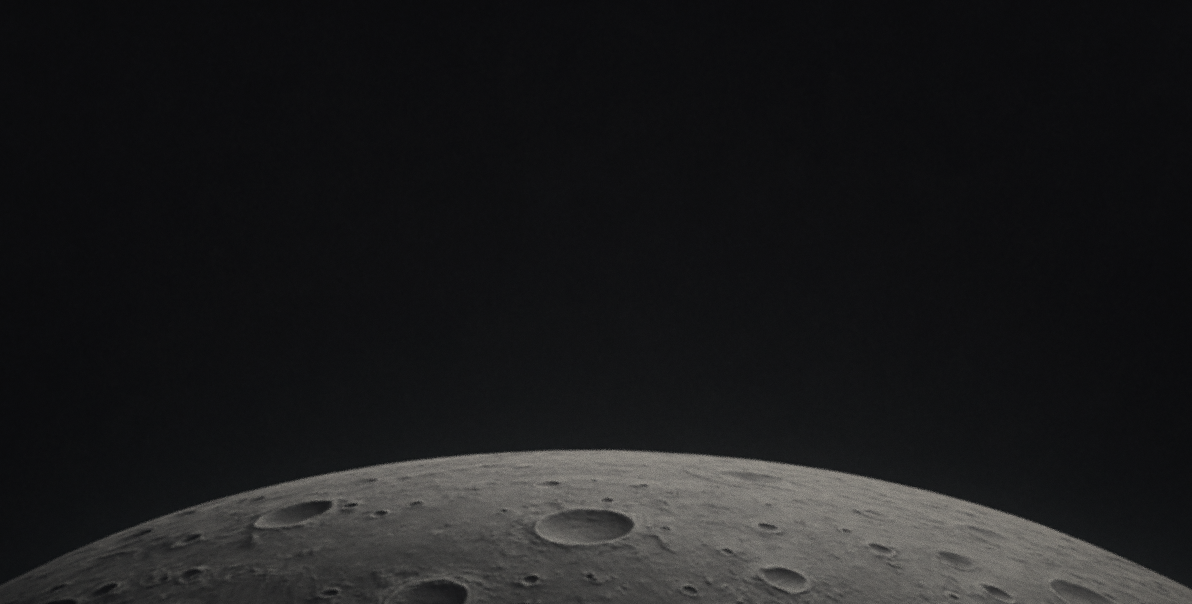
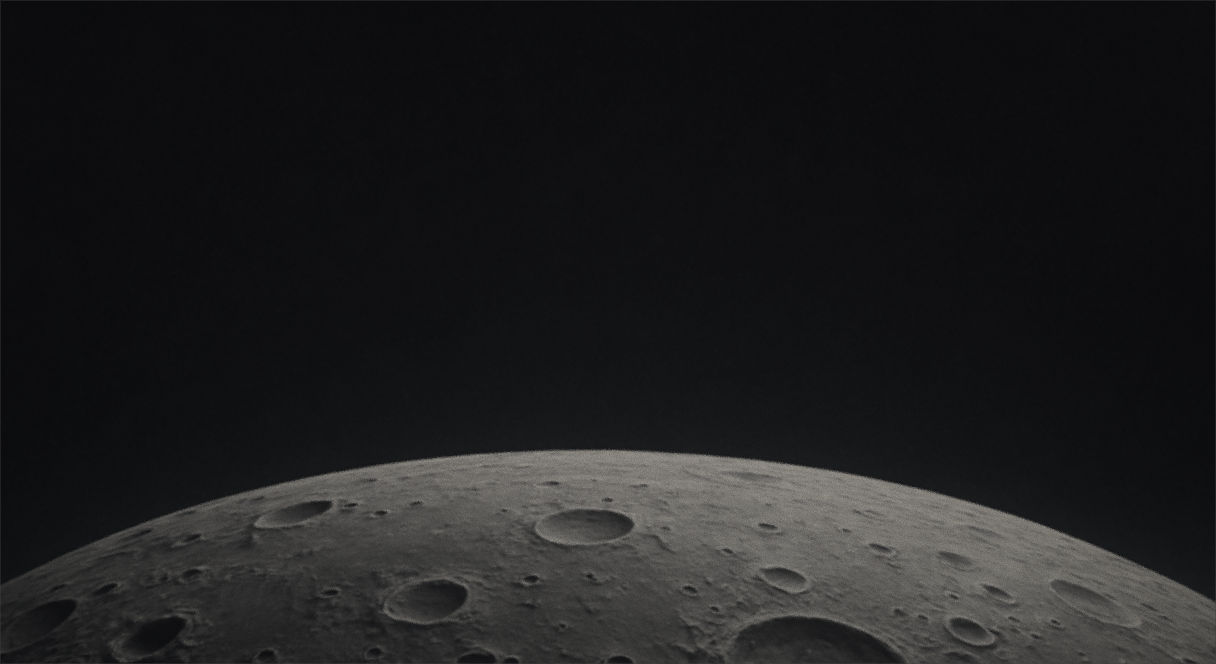
Fixed transaction output amount & updated design (#400)
* Added testIds for inMemory provider.

* Added version 2 on backend transactions

* Added validations on private and public key.

* Fixed transaction output amount

* Updated styles

* Fixes

* Fixes

Changed region(s): [[0.0, 0.6556, 1.0, 1.0], [0.0931, 0.9238, 0.1552, 1.0]]

diff --git a/src/provider/LoginModal.tsx b/src/provider/LoginModal.tsx
@@ -1,6 +1,7 @@
 import React from 'react';
 import { createPortal } from 'react-dom';
 import { createRoot } from 'react-dom/client';
+import { DataTestIdsEnum } from 'localConstants';
 
 const modalStyles = {
   overlay: {
@@ -111,12 +112,15 @@ const Modal = ({ onSubmit, onClose, needsAddress, anchor }: ModalProps) => {
               <label style={styles.label}>
                 Address
                 <input
+                  data-testid={DataTestIdsEnum.addressInput}
                   style={styles.input}
                   type='text'
                   name='address'
                   placeholder='Public key'
                   autoFocus
                   required
+                  pattern='^erd1[a-z0-9]{58}$'
+                  title='Please enter a valid address!'
                 />
               </label>
             </div>
@@ -125,21 +129,32 @@ const Modal = ({ onSubmit, onClose, needsAddress, anchor }: ModalProps) => {
             <label style={styles.label}>
               Private Key
               <input
+                data-testid={DataTestIdsEnum.privateKeyInput}
                 style={styles.input}
                 type='text'
                 name='privateKey'
                 placeholder='Private key'
                 autoFocus={!needsAddress}
                 required
+                pattern='^[a-fA-F0-9]{64}$'
+                title='Please enter a valid private key!'
               />
             </label>
           </div>
           <div style={styles.buttonGroup}>
-            <button onClick={onClose} style={styles.button}>
+            <button
+              data-testid={DataTestIdsEnum.cancelButton}
+              onClick={onClose}
+              style={styles.button}
+            >
               Cancel
             </button>
 
-            <button type='submit' style={styles.button}>
+            <button
+              data-testid={DataTestIdsEnum.submitButton}
+              type='submit'
+              style={styles.button}
+            >
               Submit
             </button>
           </div>

diff --git a/src/hooks/transactions/useSendPingPongTransaction.ts b/src/hooks/transactions/useSendPingPongTransaction.ts
@@ -1,6 +1,6 @@
 import { ProxyNetworkProvider } from '@multiversx/sdk-core/out';
-import axios from 'axios';
 import { contractAddress } from 'config';
+import pingPongAbi from 'contracts/ping-pong.abi.json';
 import { signAndSendTransactions } from 'helpers';
 import {
   AbiRegistry,
@@ -30,8 +30,7 @@ export const useSendPingPongTransaction = () => {
   const { address } = useGetAccount();
 
   const getSmartContractFactory = async () => {
-    const response = await axios.get('src/contracts/ping-pong.abi.json');
-    const abi = AbiRegistry.create(response.data);
+    const abi = AbiRegistry.create(pingPongAbi);
     const scFactory = new SmartContractTransactionsFactory({
       config: new TransactionsFactoryConfig({
         chainID: network.chainId
@@ -93,8 +92,14 @@ export const useSendPingPongTransaction = () => {
   const sendPingTransactionFromService = async (
     transactions: Transaction[]
   ) => {
+    const versionTwoTransactions = transactions.map((transaction) => {
+      const tx = Transaction.newFromPlainObject(transaction.toPlainObject());
+      tx.version = 2;
+      return tx;
+    });
+
     const sessionId = await signAndSendTransactions({
-      transactions,
+      transactions: versionTwoTransactions,
       transactionsDisplayInfo: PING_TRANSACTION_INFO
     });
 
@@ -156,8 +161,14 @@ export const useSendPingPongTransaction = () => {
       return;
     }
 
+    const versionTwoTransactions = transactions.map((transaction) => {
+      const tx = Transaction.newFromPlainObject(transaction.toPlainObject());
+      tx.version = 2;
+      return tx;
+    });
+
     const sessionId = await signAndSendTransactions({
-      transactions,
+      transactions: versionTwoTransactions,
       transactionsDisplayInfo: PONG_TRANSACTION_INFO
     });
 

diff --git a/src/components/OutputContainer/components/TransactionOutput.tsx b/src/components/OutputContainer/components/TransactionOutput.tsx
@@ -9,7 +9,6 @@ import {
   MvxCopyButton,
   SignedTransactionType,
   TRANSACTIONS_ENDPOINT,
-  useGetAccount,
   useGetNetworkConfig
 } from 'lib';
 
@@ -29,7 +28,6 @@ export const TransactionOutput = ({
   transaction: SignedTransactionType;
 }) => {
   const { network } = useGetNetworkConfig();
-  const { balance } = useGetAccount();
   const decodedData = transaction.data
     ? Buffer.from(transaction.data, 'base64').toString('ascii')
     : 'N/A';
@@ -79,7 +77,11 @@ export const TransactionOutput = ({
 
       <p>
         <Label>Amount: </Label>
-        <FormatAmount value={balance} data-testid='balance' />
+        <FormatAmount
+          value={transaction.value}
+          showLabel={true}
+          data-testid='balance'
+        />
       </p>
       <p>
         <Label>Gas price: </Label>

diff --git a/src/localConstants/dataTestIds.enum.ts b/src/localConstants/dataTestIds.enum.ts
@@ -1,18 +1,22 @@
 export enum DataTestIdsEnum {
   addressShard = 'addressShard',
+  addressInput = 'addressInput',
   balance = 'balance',
+  cancelButton = 'cancelButton',
   decodedMessage = 'decodedMessage',
   encodedMessage = 'encodedMessage',
   heroTag = 'heroTag',
   messageSignature = 'messageSignature',
   nftExplorerLink = 'nftExplorerLink',
   nftFormattedAmount = 'nftFormattedAmount',
+  privateKeyInput = 'privateKeyInput',
   receiverLink = 'receiverLink',
   receiverShard = 'receiverShard',
   senderLink = 'senderLink',
   senderShard = 'senderShard',
   shardFromLink = 'shardFromLink',
   shardToLink = 'shardToLink',
+  submitButton = 'submitButton',
   tokenExplorerLink = 'tokenExplorerLink',
   tokenFormattedAmount = 'tokenFormattedAmount',
   transactionHash = 'transactionHash',

diff --git a/src/pages/Home/components/HomeHero/HomeHero.tsx b/src/pages/Home/components/HomeHero/HomeHero.tsx
@@ -1,6 +1,5 @@
 import { Fragment, FunctionComponent, MouseEvent, SVGProps } from 'react';
-import { faArrowRightLong } from '@fortawesome/free-solid-svg-icons';
-import { FontAwesomeIcon } from '@fortawesome/react-fontawesome';
+import { ReactComponent as ArrowUpRightIcon } from 'assets/icons/arrow-up-right-icon.svg';
 import { useNavigate } from 'react-router-dom';
 import classNames from 'classnames';
 
@@ -94,10 +93,7 @@ export const HomeHero = () => {
               See Documentation
             </span>
 
-            <FontAwesomeIcon
-              icon={faArrowRightLong}
-              className={styles.heroSectionTopDocButtonIcon}
-            />
+            <ArrowUpRightIcon />
           </a>
         </div>
       </div>

diff --git a/src/styles/tailwind.css b/src/styles/tailwind.css
@@ -37,13 +37,14 @@
   --mvx-purple-850: #431c4e;
   --mvx-purple-875: #471150;
   --mvx-purple-925: #3c1543;
+  --mvx-purple-975: #310339;
 }
 
 :root[data-mvx-theme='mvx:vibe-theme'],
 [data-mvx-theme='mvx:vibe-theme'] {
   --mvx-bg-color-primary: var(--mvx-purple-925);
   --mvx-bg-color-secondary: var(--mvx-purple-875);
-  --mvx-bg-accent-color: var(--mvx-purple-925);
+  --mvx-bg-accent-color: var(--mvx-purple-975);
   --mvx-bg-accent-variant-color: var(--mvx-purple-925);
   --mvx-hover-color-primary: var(--mvx-purple-850);
   --mvx-text-color-primary: var(--mvx-white);

diff --git a/src/pages/Dashboard/Dashboard.tsx b/src/pages/Dashboard/Dashboard.tsx
@@ -104,7 +104,7 @@ export const Dashboard = () => {
       </div>
 
       <div
-        style={{ backgroundImage: 'url(src/assets/img/background.svg)' }}
+        style={{ backgroundImage: 'url(/background.svg)' }}
         className={classNames(styles.dashboardContent, {
           [styles.dashboardContentMobilePanelOpen]: isMobilePanelOpen
         })}
